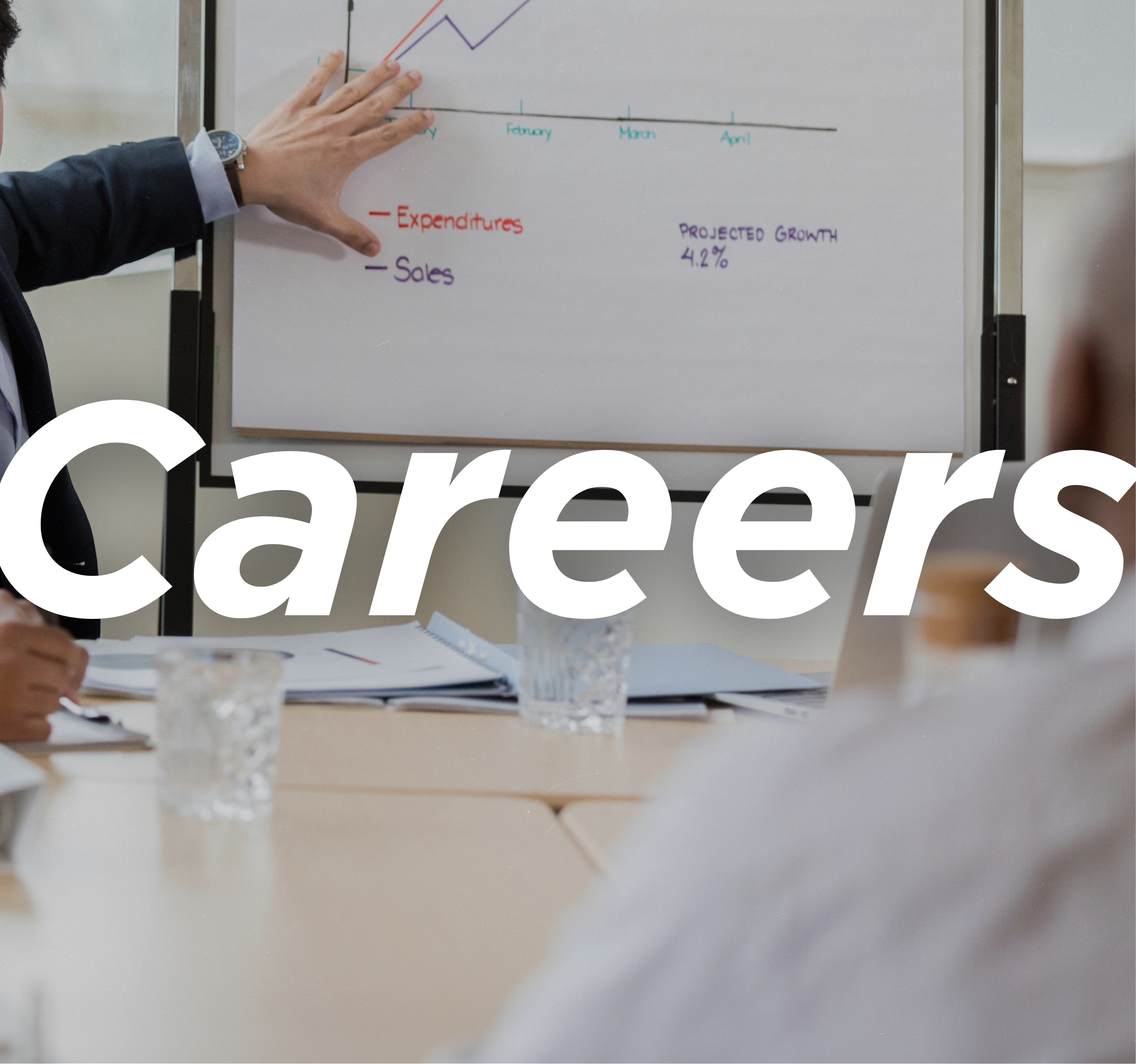
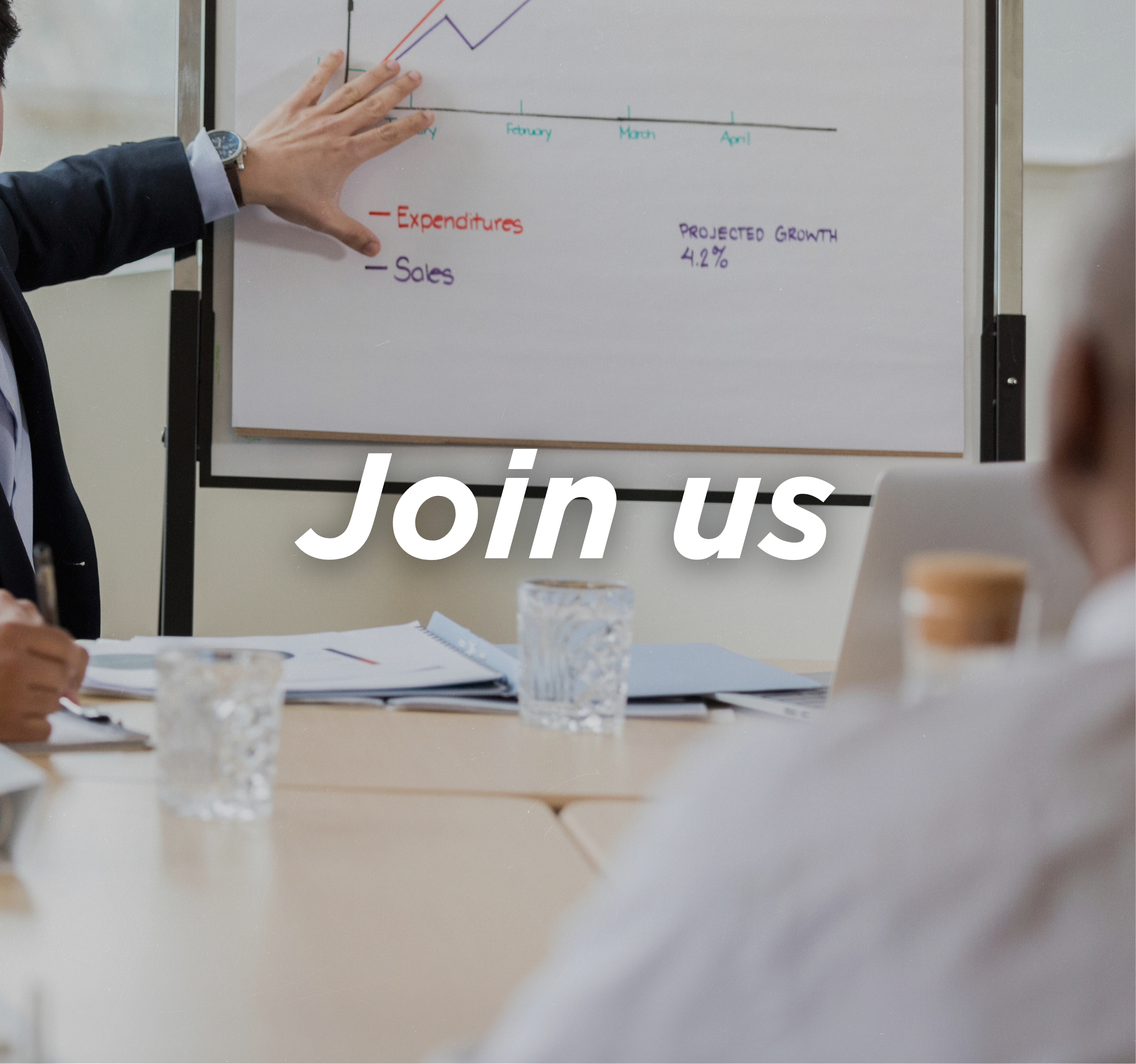
lazythis week ngl just work checck the timeline

Changed region(s): [[0.0, 0.375, 1.0, 0.625]]

diff --git a/templates/careers.html b/templates/careers.html
@@ -7,7 +7,7 @@
     <link rel="stylesheet" href="{{ url_for('static', filename='css/custom.css') }}">
     <link rel="stylesheet" href="https://cdnjs.cloudflare.com/ajax/libs/font-awesome/5.15.4/css/all.min.css">
     
-    <nav class="navbar navbar-expand-lg custom-navbar" style="background-color: black;">
+    <nav class="navbar navbar-expand-lg custom-navbar" style="background-color: rgb(14, 14, 14);">
         <div class="container-fluid">
           <a class="navbar-brand" href="{{ url_for('core.home') }}">
             <img src="{{ url_for('static', filename='creatives/Logo.svg') }}" alt="Your Logo" width="auto" height="175">
@@ -102,7 +102,7 @@
     background: linear-gradient(to bottom, rgba(0,0,0,0), rgba(0,0,0,0.6));">
     </div>
     <div class="overlay-text">
-      Careers
+      Continued Growth
     </div>
   </div>
   
@@ -137,8 +137,8 @@
       .career-img.second,
       .career-img.third,
       .career-img.fourth {
-        width: 75px;  /* adjust as needed */
-        height: 75px; /* fixed height */
+        width: 100%;  /* adjust as needed */
+        height: 500px; /* fixed height */
       }
     }
   </style>
@@ -161,9 +161,9 @@
     </div>
     <!-- Text (default order: right) with extra top margin on mobile -->
     <div class="col-lg-6 mt-3 mt-lg-0">
-      <h3 class="mb-3">Careers</h3>
-      <p>CareersCareersCareersCareersCareersCareersCareersCareersCareersCareersCareersCareersCareersCareersCareersCareersCareersCareersCareersCareers</p>
-      <p>CareersCareersCareersCareersCareersCareersCareersCareers</p>
+      <h3 class="mb-3">An environmet grounded on marit, autonomy, and growth</h3>
+      <p>At cfautocare we're on a mission to make work easily accessible for anyone, anywhere, regardless of your experience and goals.</p>
+      <p>The way we see things, technology should make it easier to produce products instead of complicating and clogging things. So we design software where labor is easily accessible for all sectors in order to streamline development and focus on innovation.</p>
     </div>
   </div>
   
@@ -242,58 +242,63 @@
 
 
 
-
-
-  
-    <!-- Second Career: image on right, text on left -->
-    <div class="row align-items-center flex-column flex-lg-row mb-4">
-      <!-- Text (ordered first on large screens) -->
-      <div class="col-lg-6 order-lg-1">
-        <h3>Careers</h3>
-        <p>CareersCareersCareersCareersCareersCareersCareersCareersCareersCareersCareersCareersCareers</p>
-      </div>
-      <!-- Image (ordered second on large screens) -->
-      <div class="col-lg-6 order-lg-2">
-        <img src="{{ url_for('static', filename='creatives/2ndcareerpic.jpg') }}"
-             alt="2nd Careers Pic"
-             class="img-fluid career-img second">
-      </div>
+<!-- Second Career: image on right, text on left -->
+<div class="row align-items-center flex-column flex-lg-row mb-4">
+  <!-- Text (ordered first on large screens) -->
+  <div class="col-lg-6 order-lg-1">
+    <div class="p-3 border rounded">
+      <h3>Autonomy</h3>
+      <p>
+        You can work whenever you want and however you want. At cfautocare we focus on the destination, and let you focus on the passage because we know that everyone has their own way of getting things done.
+      </p>
     </div>
-  
-    <!-- Third Career: image on left, text on right (default order) -->
-    <div class="row align-items-center flex-column flex-lg-row mb-4">
-        <!-- Image (default order: left) -->
-        <div class="col-lg-6">
-        <img src="{{ url_for('static', filename='creatives/3rdcareerpic.jpg') }}"
-            alt="3rd Careers Pic"
-            class="img-fluid career-img third">
-        </div>
-        <!-- Text (default order: right) with extra left margin on large screens -->
-        <div class="col-lg-6 mt-3 mt-lg-0 ms-lg-4">
-        <h3>Careers</h3>
-        <p>CareersCareersCareersCareersCareersCareersCareersCareersCareersCareersCareersCareersCareersCareersCareers</p>
-        </div>
-    </div>
-  
-  
-    <!-- Fourth Career: image on right, text on left -->
-    <div class="row align-items-center flex-column flex-lg-row mb-4">
-      <!-- Text (ordered first on large screens) -->
-      <div class="col-lg-6 order-lg-1">
-        <h3>Careers</h3>
-        <p>CareersCareersCareersCareersCareersCareersCareersCareersCareersCareersCareersCareersCareersCareersCareersCareersCareers</p>
-      </div>
-      <!-- Image (ordered second on large screens) -->
-      <div class="col-lg-6 order-lg-2">
-        <img src="{{ url_for('static', filename='creatives/4thcareerpic.jpg') }}"
-             alt="4th Careers Pic"
-             class="img-fluid career-img fourth">
-      </div>
-    </div>
-  
   </div>
-  
-  
+  <!-- Image (ordered second on large screens) -->
+  <div class="col-lg-6 order-lg-2">
+    <img src="{{ url_for('static', filename='creatives/2ndcareerpic.jpg') }}"
+         alt="2nd Careers Pic"
+         class="img-fluid career-img second">
+  </div>
+</div>
+
+<!-- Third Career: image on left, text on right (default order) -->
+<div class="row align-items-center flex-column flex-lg-row mb-4">
+  <!-- Image (default order: left) -->
+  <div class="col-lg-6">
+    <img src="{{ url_for('static', filename='creatives/3rdcareerpic.jpg') }}"
+         alt="3rd Careers Pic"
+         class="img-fluid career-img third">
+  </div>
+  <!-- Text (default order: right) -->
+  <div class="col-lg-6 mt-3 mt-lg-0">
+    <div class="p-3 border rounded">
+      <h3>Merit</h3>
+      <p>
+        If you're going to do something, do it right. And if you don't know how to do it right, keep learning and practicing until you do. We strive for excellence and as long as you have the desire, all it takes is time and effort.
+      </p>
+    </div>
+  </div>
+</div>
+
+<!-- Fourth Career: image on right, text on left -->
+<div class="row align-items-center flex-column flex-lg-row mb-4">
+  <!-- Text (ordered first on large screens) -->
+  <div class="col-lg-6 order-lg-1">
+    <div class="p-3 border rounded">
+      <h3>Growth</h3>
+      <p>
+        You decide where to stop and you decide where to start. We have many positions available from physical labor, to human relations, to strategy, to engineering, and etc... And we make sure to remove obstacles that hinder our team's growth to foster great products and services.
+      </p>
+    </div>
+  </div>
+  <!-- Image (ordered second on large screens) -->
+  <div class="col-lg-6 order-lg-2">
+    <img src="{{ url_for('static', filename='creatives/4thcareerpic.jpg') }}"
+         alt="4th Careers Pic"
+         class="img-fluid career-img fourth">
+  </div>
+</div>
+
   
   
 
